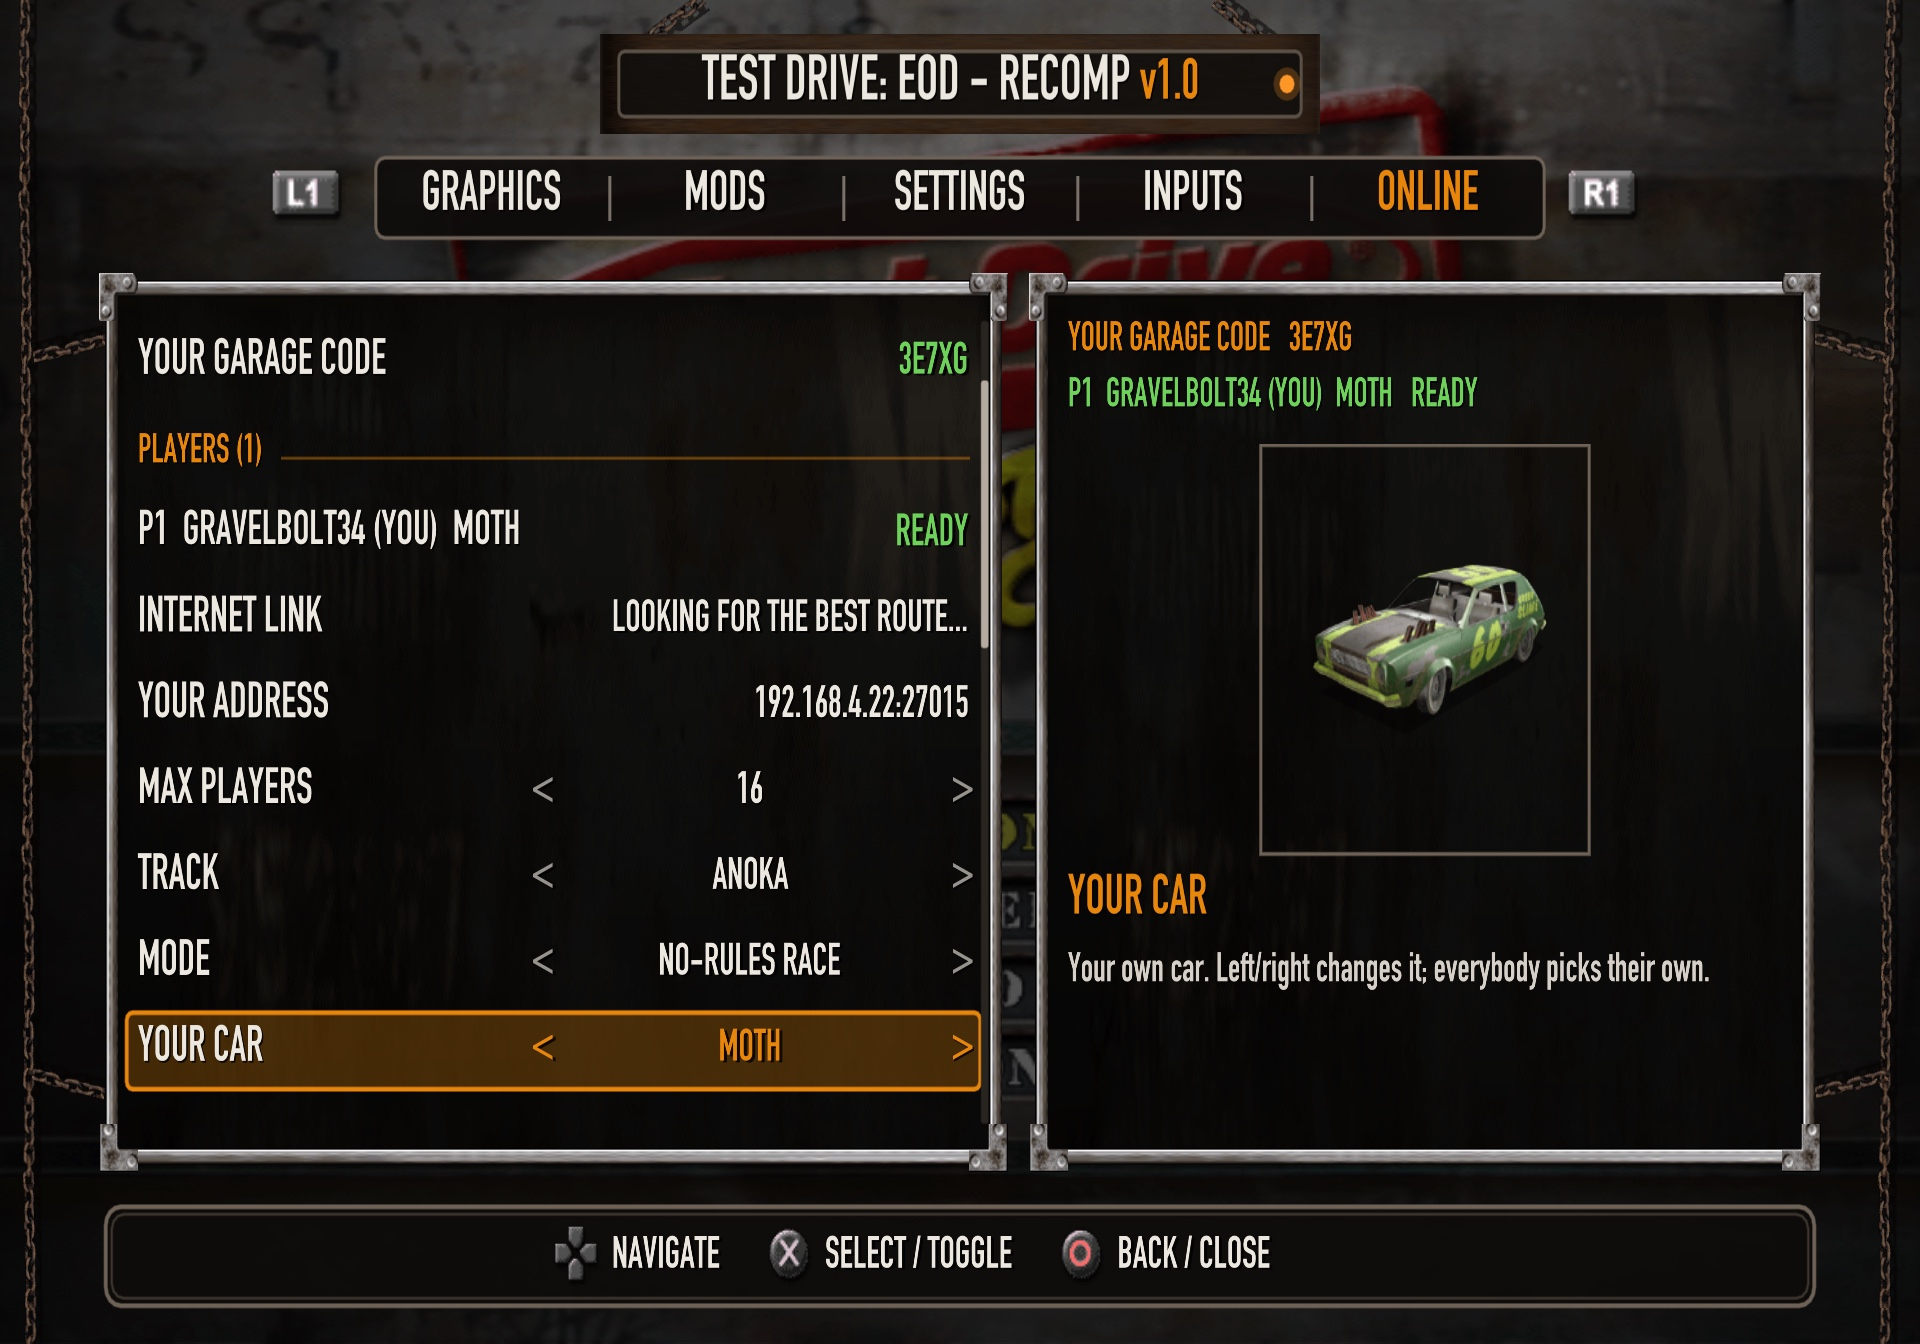
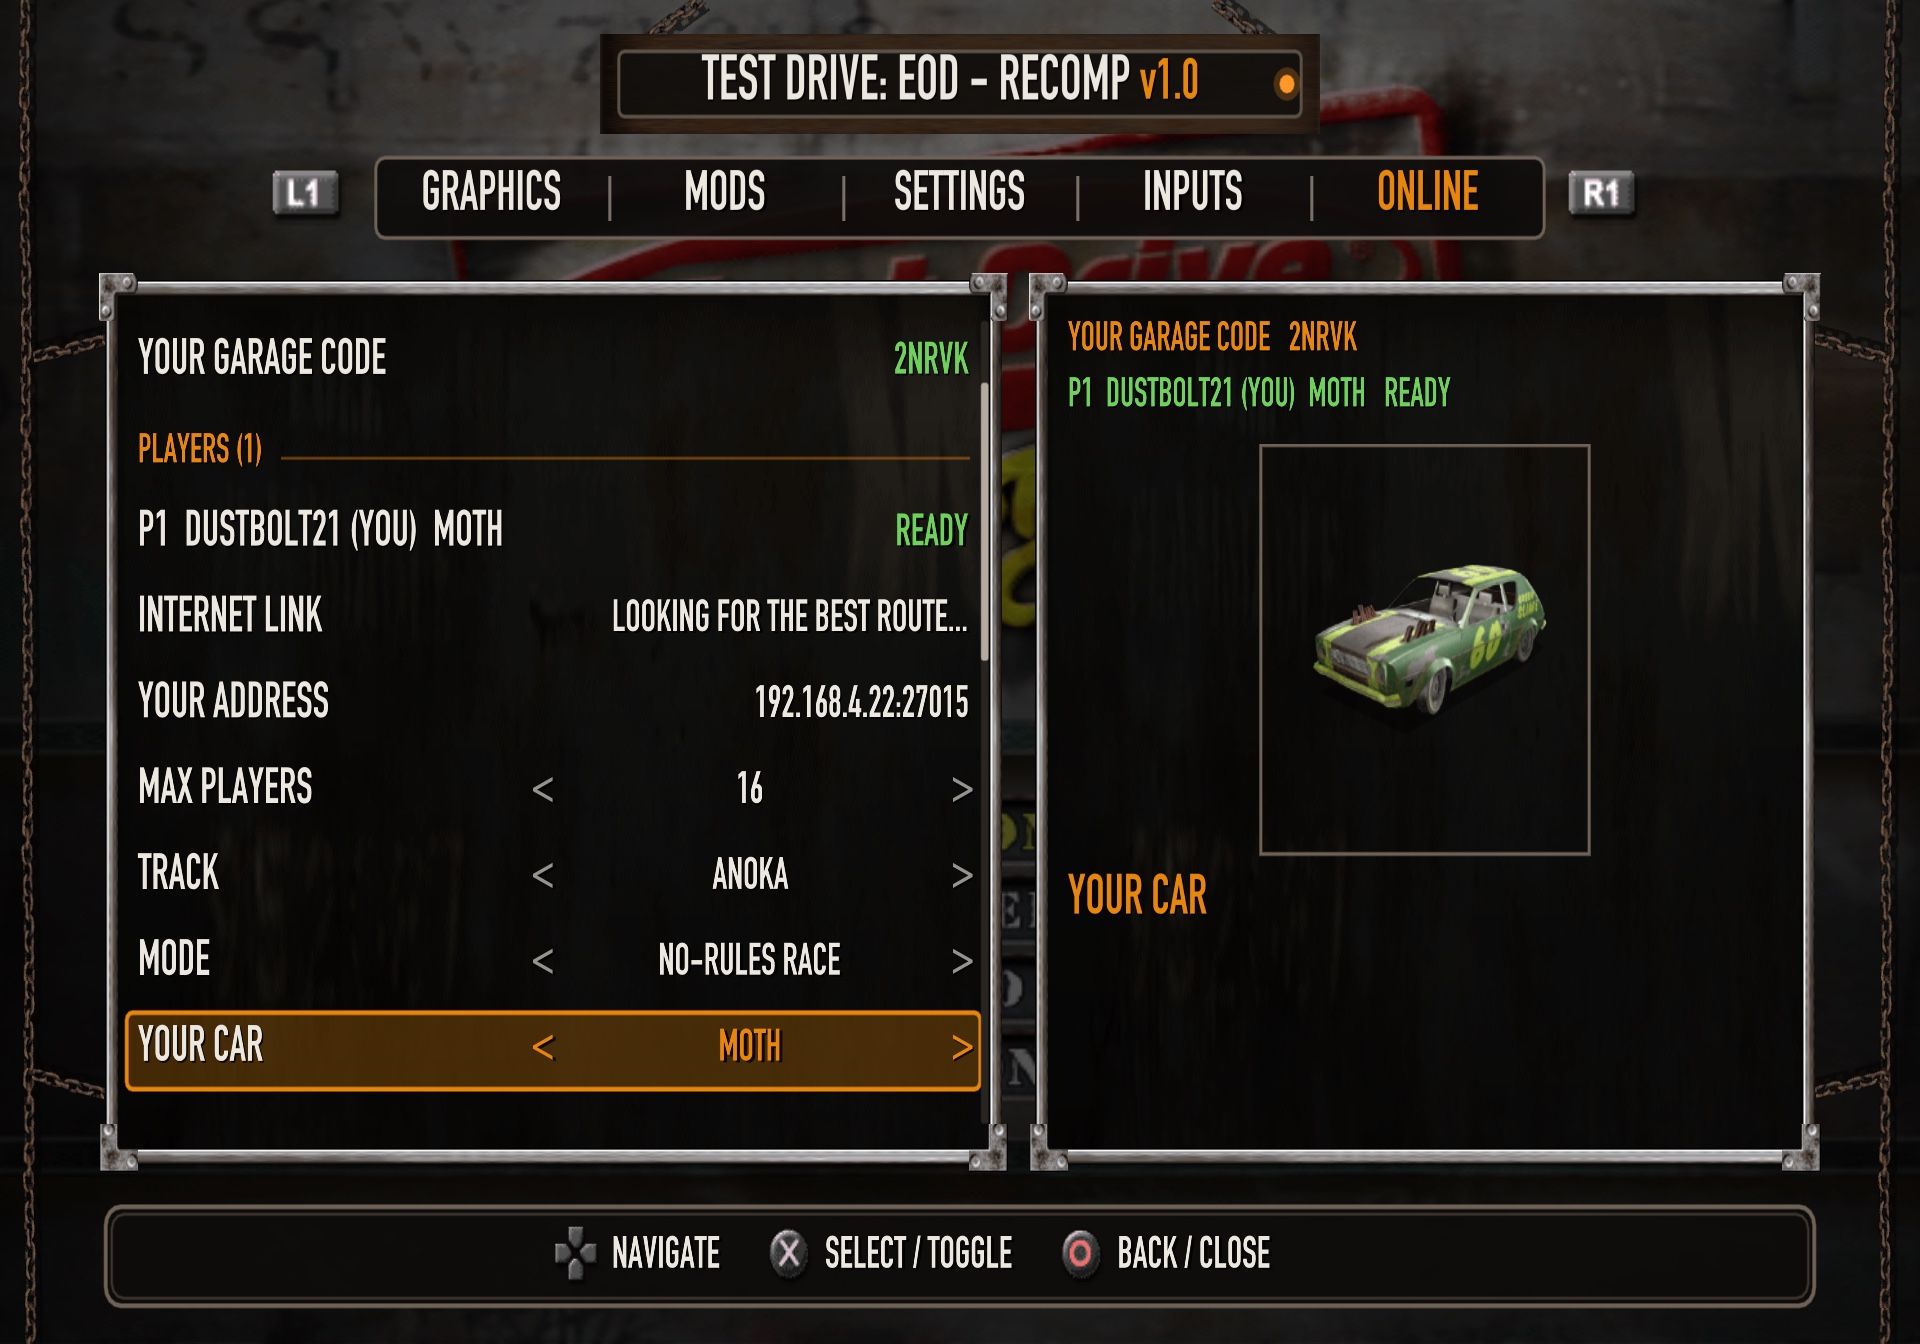
Remove redundant Online instructions and persist product copy rule
Situation: Online help repeated labels and visible controls.
Task: Remove explanatory filler while preserving consequences and recovery guidance.
Action: Delete picker/control narration, show Waiting for host after guest readiness, clarify disconnect scope, and persist the owner's copy rule in AGENTS.md. Refresh the README screenshot from the actual renderer.
Result: Mac and Windows builds and frontend menu tests passed. Reviewed the rendered picker without the old paragraph; installed and verified the signed Mac app.

diff --git a/runtime/ui/frontend.cpp b/runtime/ui/frontend.cpp
@@ -529,7 +529,7 @@ void Menu::rows_online(std::vector<Row> &r) {
     using P = game_frontend::Snapshot::Phase;
     const bool connected = s.phase != P::Offline && s.phase != P::Disconnected && s.phase != P::Error;
     Row st = info("status", "STATUS", connected ? upper(s.status.empty() ? "CONNECTED" : s.status) : "NOT CONNECTED",
-                  "Online play: one player hosts, the others join. Each player drives their own car on their own screen.");
+                  "");
     st.warn = !connected;
     st.good = connected;
     r.push_back(st);
@@ -540,7 +540,7 @@ void Menu::rows_online(std::vector<Row> &r) {
     }
     r.push_back(header(s.is_host ? "HOST LOBBY" : connected ? "SESSION" : "PLAY ONLINE"));
     if (!s.code.empty()) {
-        Row gc = info("gcode", "YOUR GARAGE CODE", s.code, "Tell your friends this code (Cmd+C copies it). They choose JOIN BY CODE and type or paste it.");
+        Row gc = info("gcode", "YOUR GARAGE CODE", s.code, "");
         gc.good = true;
         r.push_back(gc);
     }
@@ -554,42 +554,43 @@ void Menu::rows_online(std::vector<Row> &r) {
             r.push_back(pr);
         }
     }
-    if (!s.route.empty()) r.push_back(info("route", "INTERNET LINK", upper(s.route), "How friends outside your home network can reach you. Nothing to set up."));
+    if (!s.route.empty()) r.push_back(info("route", "INTERNET LINK", upper(s.route), ""));
     if (!connected) {
-        r.push_back(action("host", "HOST GAME", "[ HOST ]", "Hosts a lobby; friends join with the Garage Code shown here, or find you on the network."));
+        r.push_back(action("host", "HOST GAME", "[ HOST ]", ""));
         Row code = action("code", "JOIN BY CODE", text_id_ == "code" ? text_ + "_" : "[ ENTER CODE ]",
-                          "Type or paste (Cmd+V) the host's 5-character Garage Code, then Enter to join.");
+                          "5-character Garage Code.");
         code.kind = RowKind::Text;
         r.push_back(code);
         Row addr = action("addr", "JOIN BY ADDRESS", text_id_ == "addr" ? text_ + "_" : "[ ENTER ADDRESS ]",
-                          "Enter host:port for a direct connection.");
+                          "Example: 192.168.1.20:27015.");
         addr.kind = RowKind::Text;
         r.push_back(addr);
     }
-    Row ready = toggle("ready", "READY", s.ready, "", "Marks you ready in the lobby.");
+    Row ready = toggle("ready", "READY", s.ready, "", "");
     ready.enabled = connected && !s.is_host;
     if (s.phase == P::Lobby && !s.is_host) r.push_back(ready);
     if (s.is_host && (s.phase == P::Racing || s.phase == P::Loading)) {
         r.push_back(action("end_event", "BACK TO LOBBY", s.phase == P::Loading ? "[ CANCEL START ]" : "[ END RACE ]",
-                           "Ends the current race for everyone and returns the whole party to the lobby."));
+                           "Ends the race for everyone. Keeps the lobby open."));
     }
     const bool guest_in_race = !s.is_host && s.phase == P::Racing;
     Row leave = action("leave", s.is_host ? "CLOSE LOBBY" : guest_in_race ? "LEAVE MATCH" : "LEAVE / CANCEL",
                        guest_in_race ? "[ LEAVE RACE ]" : "[ DISCONNECT ]",
-                       guest_in_race ? "Leaves the match and returns you to the main menu while the others keep racing."
-                                     : "Leaves the lobby or cancels the connection.");
+                       guest_in_race ? "Disconnects you. Other players keep racing."
+                                     : "");
+    if (s.is_host) leave.help = "Disconnects everyone.";
     leave.enabled = connected || s.can_cancel;
 
-    if (!s.invite.empty()) r.push_back(info("invite", "YOUR ADDRESS", s.invite, "Friends on your network see your game listed. Others can join by typing this address."));
+    if (!s.invite.empty()) r.push_back(info("invite", "YOUR ADDRESS", s.invite, ""));
     if (!connected && !s.crew.empty()) {
         r.push_back(header("FRIENDS HOSTING NOW"));
         for (const auto &g : s.crew)
-            r.push_back(action(("crew:" + g.address).c_str(), upper(g.name).c_str(), "[ JOIN ]  " + std::to_string(g.players) + " PLAYING", "Joins your friend's game. No code needed."));
+            r.push_back(action(("crew:" + g.address).c_str(), upper(g.name).c_str(), "[ JOIN ]  " + std::to_string(g.players) + " PLAYING", ""));
     }
     if (!connected && !s.lan.empty()) {
         r.push_back(header("GAMES ON YOUR NETWORK"));
         for (const auto &g : s.lan)
-            r.push_back(action(("lan:" + g.address).c_str(), upper(g.name).c_str(), "[ JOIN ]  " + std::to_string(g.players) + " PLAYING", "Joins this game."));
+            r.push_back(action(("lan:" + g.address).c_str(), upper(g.name).c_str(), "[ JOIN ]  " + std::to_string(g.players) + " PLAYING", ""));
     }
     for (const auto &o : s.options) {
         if (o.editable) r.push_back(choice(("opt:" + o.id).c_str(), o.label.c_str(), upper(o.value), "", o.help.c_str()));
@@ -597,12 +598,12 @@ void Menu::rows_online(std::vector<Row> &r) {
     }
     if (s.is_host && s.phase == P::Lobby) {
         Row start = action("start", "START EVENT", s.can_start ? "[ START ]" : "WAITING",
-                           s.can_start ? "Starts the selected event with this lobby." : s.status.c_str());
+                           s.can_start ? "" : s.status.c_str());
         start.enabled = s.can_start;
         r.push_back(start);
     }
     Row nick = action("nickname", "SCREEN NAME", text_id_ == "nickname" ? text_ + "_" :
-                      (cfg_.nickname.empty() ? "RANDOM" : cfg_.nickname), "Choose a nickname, or clear it for a random callsign.");
+                      (cfg_.nickname.empty() ? "RANDOM" : cfg_.nickname), "Leave blank for a random name.");
     nick.kind = RowKind::Text;
     r.push_back(nick);
     if (!connected) return;
@@ -612,15 +613,18 @@ void Menu::rows_online(std::vector<Row> &r) {
     r.push_back(mods);
 
     r.push_back(header("VOICE"));
-    Row mic = toggle("mic", "MICROPHONE", s.microphone_enabled, "LIVE", "Sends your voice to the lobby and race.");
+    Row mic = toggle("mic", "MICROPHONE", s.microphone_enabled, "LIVE", "");
     mic.enabled = connected && s.voice;
-    if (s.microphone_enabled && !s.microphone_capture)
+    if (s.microphone_enabled && !s.microphone_capture) {
         mic.value = s.deafened ? "DEAFENED" : "NO INPUT";
+        mic.help = s.deafened ? "Turn off Deafen to use your microphone."
+                             : "Check microphone permission and the selected input device.";
+    }
     r.push_back(mic);
-    Row mute = toggle("mute", "MUTE OTHERS", s.muted, "LIVE", "Stops playing the other players' voices.");
+    Row mute = toggle("mute", "MUTE OTHERS", s.muted, "LIVE", "");
     mute.enabled = connected && s.voice;
     r.push_back(mute);
-    Row deaf = toggle("deafen", "DEAFEN", s.deafened, "LIVE", "Mutes your microphone and all incoming voice.");
+    Row deaf = toggle("deafen", "DEAFEN", s.deafened, "LIVE", "Mutes your microphone and incoming voice.");
     deaf.enabled = connected && s.voice;
     r.push_back(deaf);
     if (s.is_host) {
@@ -629,7 +633,7 @@ void Menu::rows_online(std::vector<Row> &r) {
             const auto id = "kick:" + std::to_string(player.slot) + ":" + std::to_string(player.identity);
             r.push_back(action(id.c_str(), ("REMOVE " + upper(player.name)).c_str(),
                                remove_player_ == id ? "[ CONFIRM REMOVE ]" : "[ REMOVE ]",
-                               "Removes this player only. Select again to confirm; Back cancels."));
+                               "Disconnects this player."));
         }
     }
     if (connected || s.can_cancel) r.push_back(leave);

diff --git a/src/netplay_session.cpp b/src/netplay_session.cpp
@@ -609,9 +609,9 @@ game_frontend::Snapshot Session::snapshot() const {
                           d.all_peers([](const Peer &p) { return p.at_menu && p.ready; });
             if (!s.can_start && s.phase == S::Phase::Lobby)
                 s.status = d.in_menu ? "Waiting for game data or players to be ready" : "Waiting for the game main menu";
-            s.options.push_back({"players","MAX PLAYERS",std::to_string(d.max_players),s.phase == S::Phase::Lobby,"Maximum lobby occupants including the host. The selected event also needs enough grid seats."});
-            s.options.push_back({"track", "TRACK", d.track_name.empty() ? "Loading game data..." : d.track_name, true, "The host chooses the track. Left/right changes it."});
-            s.options.push_back({"mode", "MODE", d.mode_name(), true, "The event everyone plays. The host chooses; left/right changes it."});
+            s.options.push_back({"players","MAX PLAYERS",std::to_string(d.max_players),s.phase == S::Phase::Lobby,"Includes the host. Race capacity depends on the event."});
+            s.options.push_back({"track", "TRACK", d.track_name.empty() ? "Loading game data..." : d.track_name, true, ""});
+            s.options.push_back({"mode", "MODE", d.mode_name(), true, ""});
         } else {
             for (auto &p : d.lobby_players) {
                 const bool spk = p.id < kMaxPlayers && t_now < d.speaking_until[p.id];
@@ -619,17 +619,16 @@ game_frontend::Snapshot Session::snapshot() const {
                 s.players.push_back({p.id, p.name + (p.id == local_id ? " (YOU)  " : "  ") + p.vname + "  " + std::to_string(p.ping) + "ms", p.ready, mtd, false, spk});
             }
             s.ready = d.guest_ready;
-            s.options.push_back({"players","MAX PLAYERS",std::to_string(d.max_players),false,"The host chooses the lobby capacity."});
-            s.options.push_back({"track", "TRACK", d.lobby_track, false, "The host chooses the track."});
-            s.options.push_back({"mode", "MODE", d.lobby_event, false, "The host chooses the event."});
+            if (s.phase == S::Phase::Lobby && s.ready) s.status = "Waiting for host";
+            s.options.push_back({"players","MAX PLAYERS",std::to_string(d.max_players),false,"Host only."});
+            s.options.push_back({"track", "TRACK", d.lobby_track, false, "Host only."});
+            s.options.push_back({"mode", "MODE", d.lobby_event, false, "Host only."});
         }
-        s.options.push_back({"car", "YOUR CAR", d.my_model.empty() ? "Loading game data..." : d.my_model, true, "Your own car. Left/right changes it; everybody picks their own."});
-        s.options.push_back({"paint", "PAINT", d.my_model.empty() ? "-" : "PAINT " + std::to_string(d.my_paint + 1) + " OF " + std::to_string(std::max<size_t>(1, session_catalog::paints(d.my_model).size())), true, "The paint of your car."});
+        s.options.push_back({"car", "YOUR CAR", d.my_model.empty() ? "Loading game data..." : d.my_model, true, ""});
+        s.options.push_back({"paint", "PAINT", d.my_model.empty() ? "-" : "PAINT " + std::to_string(d.my_paint + 1) + " OF " + std::to_string(std::max<size_t>(1, session_catalog::paints(d.my_model).size())), true, ""});
         for (const auto &opt : Impl::rule_options)
             s.options.push_back({opt.id,opt.label,(d.rules & opt.bit) ? "ON" : "OFF",s.is_host,
-                                 "The host sets this for every driver before starting."});
-        if (s.phase == S::Phase::Lobby) s.options.push_back({"info", "HOW IT STARTS", "HOST PRESSES START", false,
-                             "START loads the event straight away on every machine, each player in their own car."});
+                                 "Applies to all players. Locked during the race."});
     }
     if (s.phase != S::Phase::Lobby) for (auto &o : s.options) o.editable = false;
     uint64_t t = now_us();

diff --git a/AGENTS.md b/AGENTS.md
@@ -35,3 +35,13 @@ then validate higher resolutions sequentially (2x, 4x, 6x); higher FPS follows.
 DLSS is explicitly last. Preserve faithful simulation/physics and verify solo/local
 multiplayer with real rendering outputs. Other mods remain deferred. Read
 `docs/DEVELOPER_HANDOFF.md` for the published branches and current acceptance gaps.
+
+## Product language — hard rule
+
+UI copy must identify something, explain a consequence, resolve uncertainty, or
+help recovery. Otherwise, delete it. This applies to UI, help, onboarding,
+marketing and release notes. Use language appropriate to commercial software
+and a human-led project. Do not narrate visible controls, paraphrase labels,
+reassure users about expected behavior, or fill empty space with explanations.
+Review every line with: “What would the player misunderstand without this text?”
+No concrete answer means remove it.
